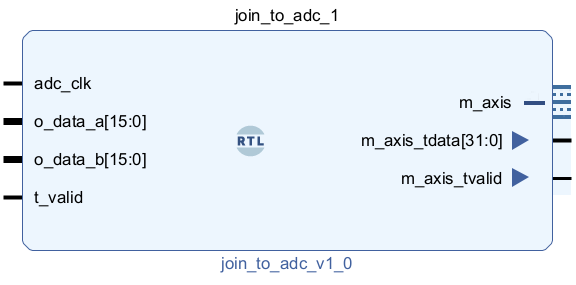
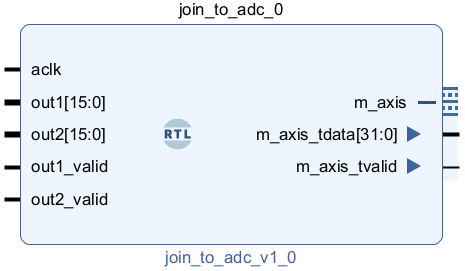
Added code to splitjoin block description

Changed region(s): [[0.0, 0.0, 0.9935, 1.0], [0.3312, 0.4428, 0.4817, 0.5609]]

diff --git a/Tutorials/CORE_SPLIT_JOIN/README.md b/Tutorials/CORE_SPLIT_JOIN/README.md
@@ -12,47 +12,67 @@ The first core splits
 
 ### Code
 
-The code is
+The code has two parameters
 
 ```verilog
-`timescale 1 ns / 1 ps
-
 module split_from_dac #
 (
   parameter integer PADDED_DATA_WIDTH = 16,
   parameter integer AXIS_TDATA_WIDTH = 32
 )
-(
-  // Inputs from ADC
-  (* X_INTERFACE_PARAMETER = "FREQ_HZ 125000000" *)
-  input wire                        adc_clk,
-  (* X_INTERFACE_PARAMETER = "FREQ_HZ 125000000" *)
-  input wire [AXIS_TDATA_WIDTH-1:0] m_axis_tdata,
-  input wire                        m_axis_tvalid,
-  
-  //Split data output
-  (* X_INTERFACE_PARAMETER = "FREQ_HZ 125000000" *)  
-  output wire [PADDED_DATA_WIDTH-1:0] o_data_a,
-  (* X_INTERFACE_PARAMETER = "FREQ_HZ 125000000" *)
-  output wire [PADDED_DATA_WIDTH-1:0] o_data_b
-);
+```
 
-  reg  [PADDED_DATA_WIDTH-1:0] int_data_a_reg;
-  reg  [PADDED_DATA_WIDTH-1:0] int_data_b_reg;
+Inputs
 
-  always @(posedge adc_clk)
-  begin
-    if(m_axis_tvalid)
-    begin
-        int_data_a_reg <= m_axis_tdata[15:0];
-        int_data_b_reg <= m_axis_tdata[31:16];
-    end
-  end
+```verilog
+(* X_INTERFACE_PARAMETER = "FREQ_HZ 125000000" *)
+input wire	aclk,
 
-  assign o_data_a = int_data_a_reg;
-  assign o_data_b = int_data_b_reg;
+(* X_INTERFACE_PARAMETER = "FREQ_HZ 125000000" *)
+input wire [AXIS_TDATA_WIDTH-1:0] s_axis_tdata,
 
-endmodule
+input wire	s_axis_tvalid,
+```
+
+Outputs
+
+```verilog
+(* X_INTERFACE_PARAMETER = "FREQ_HZ 125000000" *)  
+output wire [PADDED_DATA_WIDTH-1:0] in1,
+
+(* X_INTERFACE_PARAMETER = "FREQ_HZ 125000000" *)
+output wire [PADDED_DATA_WIDTH-1:0] in2,
+
+output wire t_valid
+```
+
+Registers
+
+```verilog
+reg  [PADDED_DATA_WIDTH-1:0] in1_reg;
+reg  [PADDED_DATA_WIDTH-1:0] in2_reg;
+```
+
+Update
+
+```verilog
+always @(posedge aclk)
+begin
+	if(s_axis_tvalid)
+	begin
+    	in1_reg <= s_axis_tdata[15:0];
+    	in2_reg <= s_axis_tdata[31:16];
+	end
+end
+```
+
+Output
+
+```verilog
+assign in1 = in1_reg;
+assign in2 = in2_reg;
+
+assign t_valid  = s_axis_tvalid;
 ```
 
 ## join_to_adc
@@ -63,44 +83,68 @@ endmodule
 
 ### Code
 
-```verilog
-`timescale 1 ns / 1 ps
+Parameters
 
+```verilog
 module join_to_adc #
 (
   parameter integer PADDED_DATA_WIDTH = 16,
   parameter integer AXIS_TDATA_WIDTH = 32
 )
-(
-  //Split data input
-  (* X_INTERFACE_PARAMETER = "FREQ_HZ 125000000" *)
-  input wire                        adc_clk,
-  (* X_INTERFACE_PARAMETER = "FREQ_HZ 125000000" *)  
-  input wire [PADDED_DATA_WIDTH-1:0] o_data_a,
-  (* X_INTERFACE_PARAMETER = "FREQ_HZ 125000000" *)
-  input wire [PADDED_DATA_WIDTH-1:0] o_data_b,
-  input wire t_valid,
-
-  //Joined data output
-  (* X_INTERFACE_PARAMETER = "FREQ_HZ 125000000" *)  
-  output wire [AXIS_TDATA_WIDTH-1:0] m_axis_tdata,
-  output wire m_axis_tvalid
-);
-
-    reg  [AXIS_TDATA_WIDTH-1:0] int_tdata_reg;
-    
-    always @(posedge adc_clk)
-    begin
-        if(t_valid)
-        begin
-            int_tdata_reg <= {o_data_b[PADDED_DATA_WIDTH-1:0],o_data_a[PADDED_DATA_WIDTH-1:0]};
-        end
-    end
-
-  assign m_axis_tdata = int_tdata_reg;
-  assign m_axis_tvalid = t_valid;
-
-endmodule
 ```
 
+Inputs
+
+```verilog
+(* X_INTERFACE_PARAMETER = "FREQ_HZ 125000000" *)
+input wire                        aclk,
+
+(* X_INTERFACE_PARAMETER = "FREQ_HZ 125000000" *)  
+input wire [PADDED_DATA_WIDTH-1:0] out1,
+(* X_INTERFACE_PARAMETER = "FREQ_HZ 125000000" *)
+input wire [PADDED_DATA_WIDTH-1:0] out2,
+
+input wire out1_valid,
+input wire out2_valid,
+```
+
+Outputs
+
+```verilog
+//Joined output data
+(* X_INTERFACE_PARAMETER = "FREQ_HZ 125000000" *)  
+output wire [AXIS_TDATA_WIDTH-1:0] m_axis_tdata,
+output wire m_axis_tvalid
+```
+
+Registers
+
+```verilog
+reg  [PADDED_DATA_WIDTH-1:0] out1_reg;
+reg  [PADDED_DATA_WIDTH-1:0] out2_reg;
+```
+
+Update
+
+```verilog
+always @(posedge aclk)
+begin
+    if(out1_valid)
+    begin
+        out1_reg <= out1[PADDED_DATA_WIDTH-1:0];
+    end
+    if(out2_valid)
+    begin
+        out2_reg <= out2[PADDED_DATA_WIDTH-1:0];
+    end
+end
+```
+
+Output
+
+```verilog
+assign m_axis_tdata = {out2_reg[PADDED_DATA_WIDTH-1:0],out1_reg[PADDED_DATA_WIDTH-1:0]};
+assign m_axis_tvalid = 1'b1;
+
+```
 
